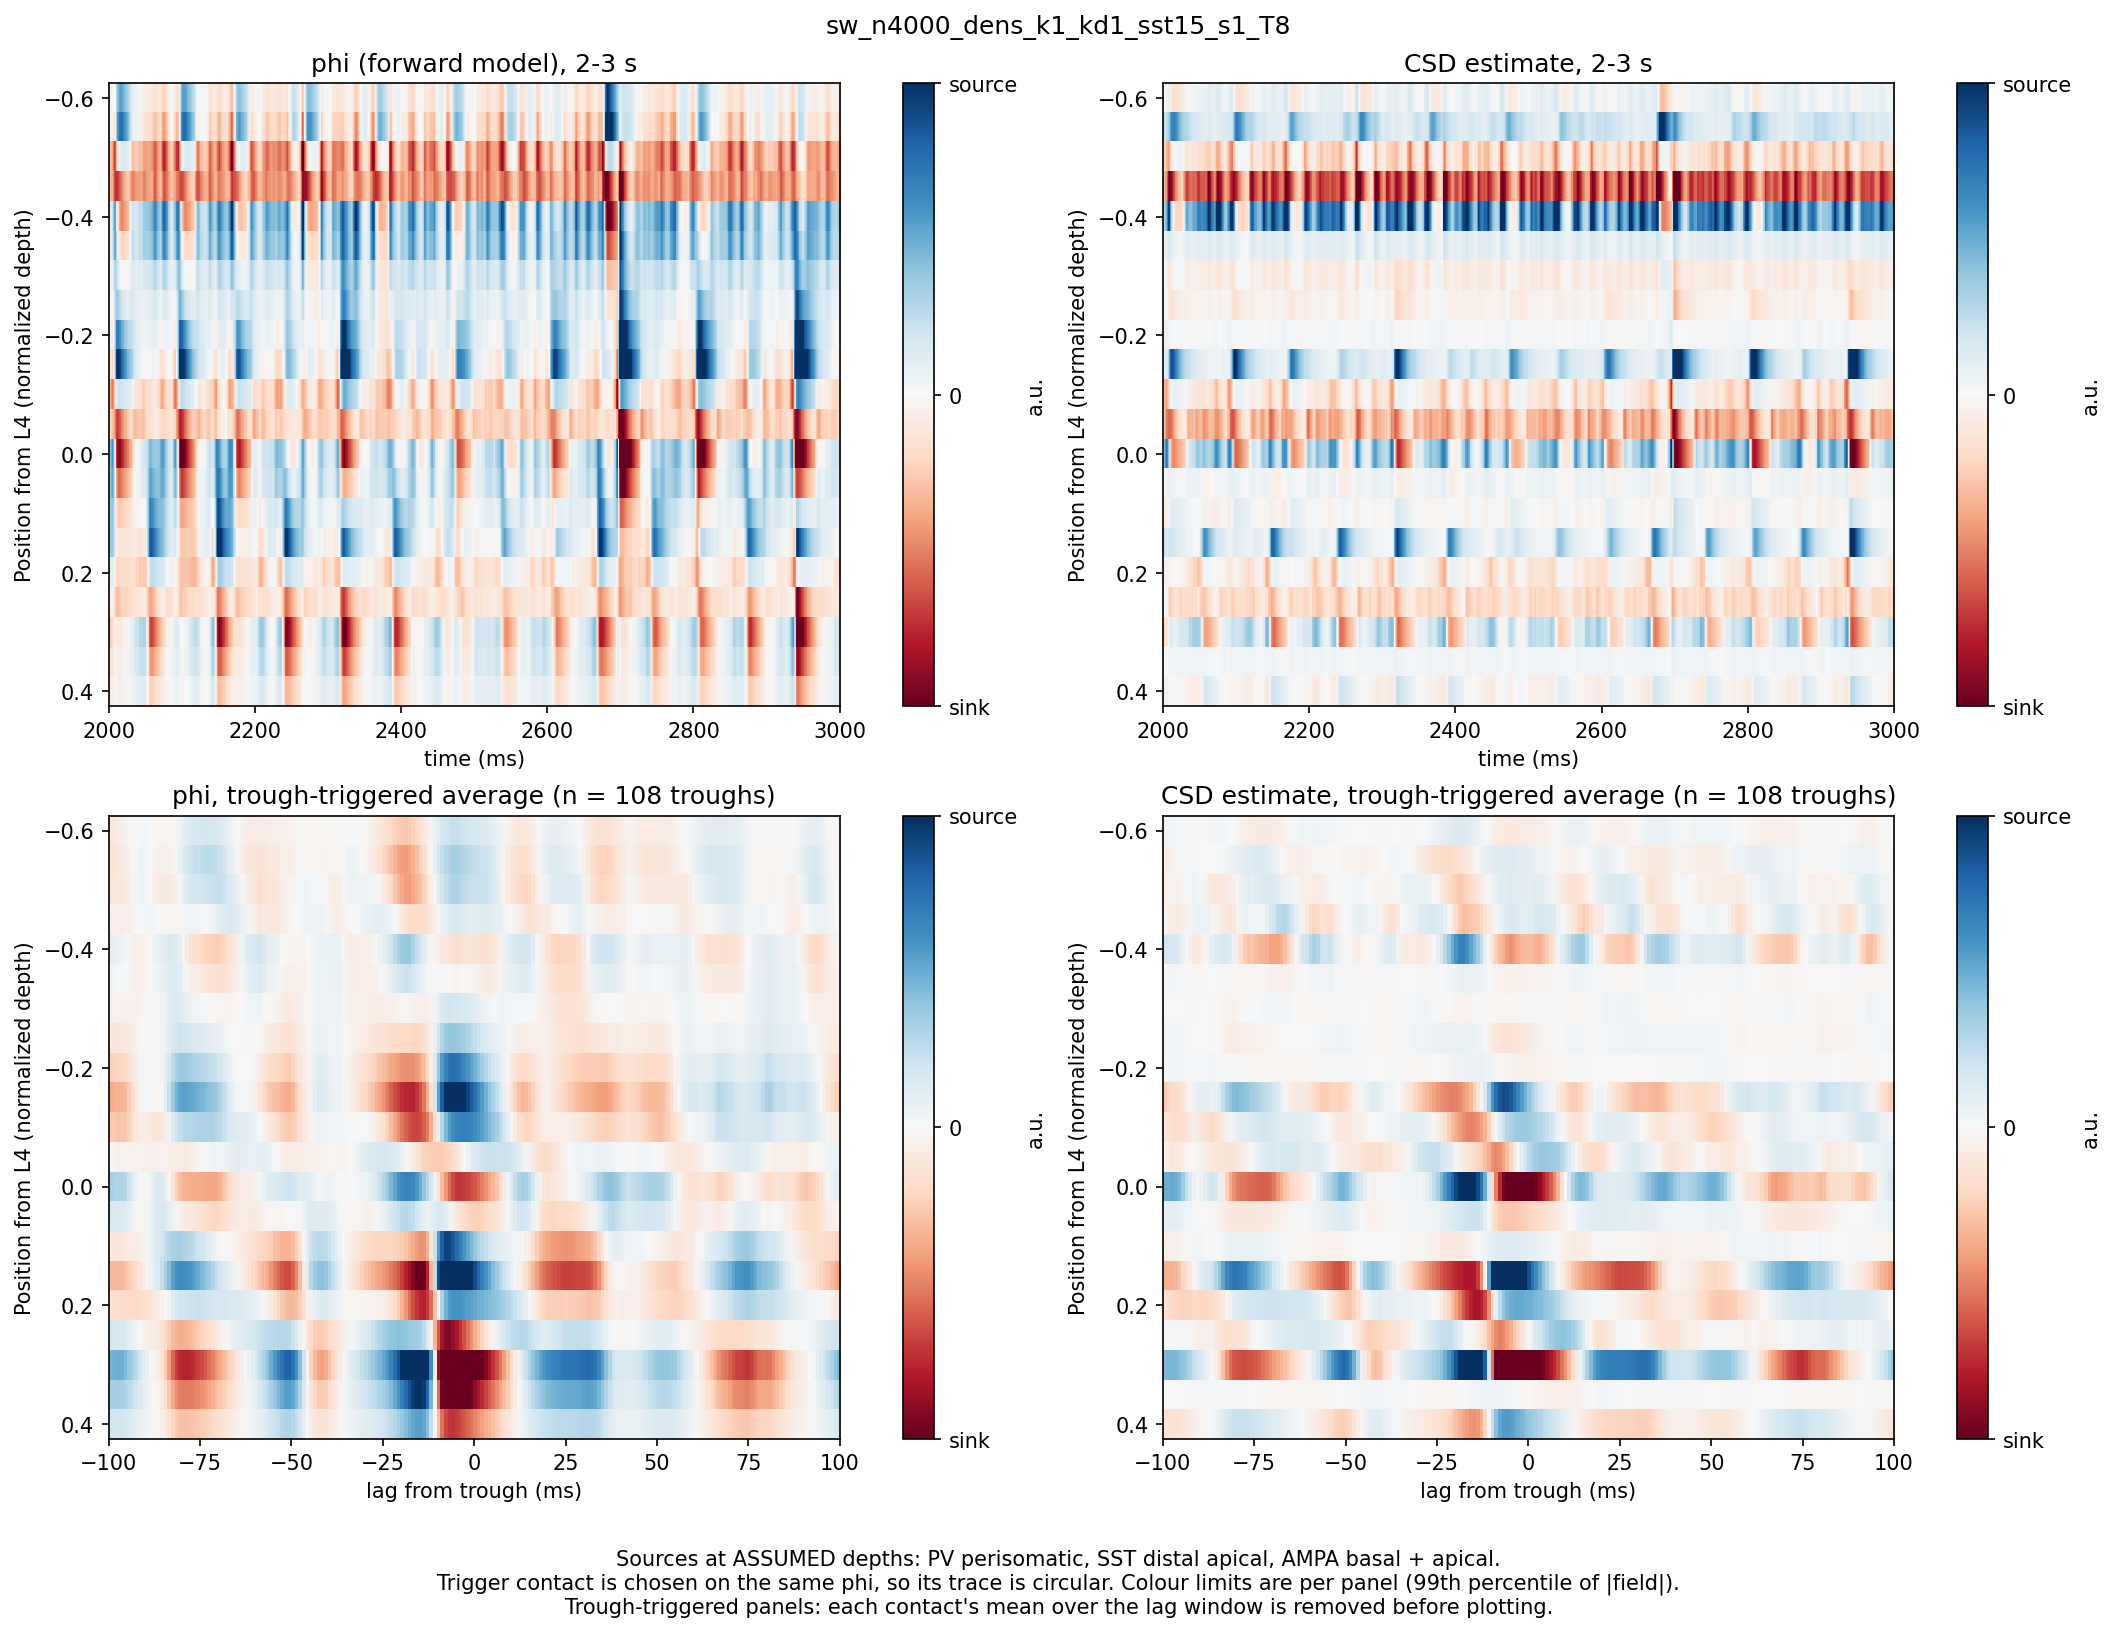
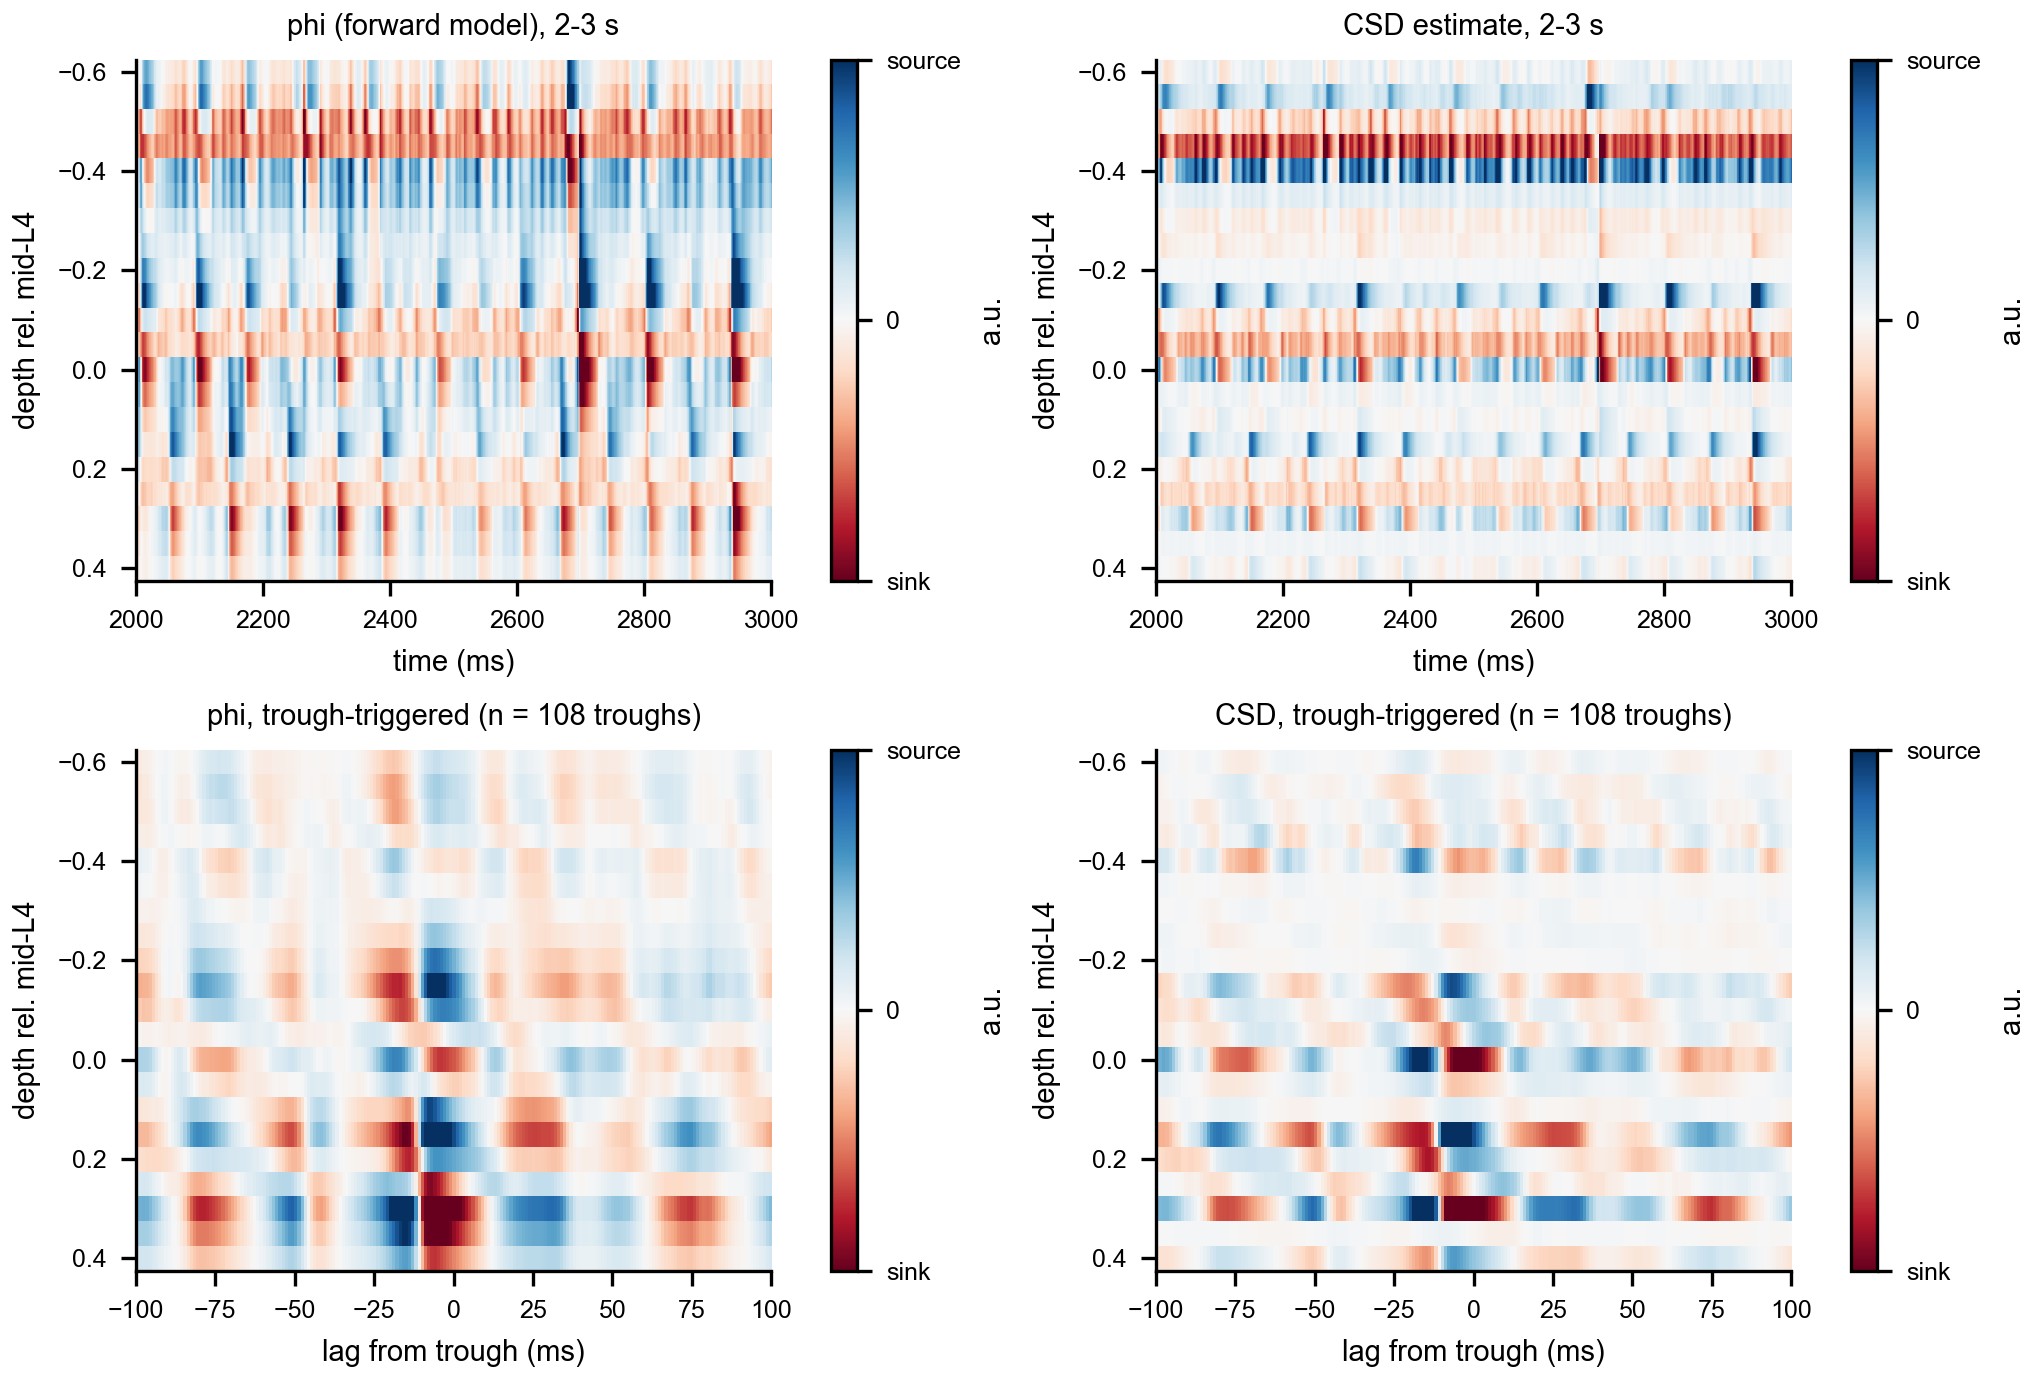
Critic round 2 on e153cbb (REVISE): commit the print-size CSD figure and the T8 atlas; Methods states which figures are untracked and that D6 hashes all shown
- results/viz/paper_w4/..._csd.png (tracked) was regenerated by e2_csd.py but not committed; the T8 atlas is now
  tracked like the T1 atlases.
- Abstract: T8 dominance marked as read from the maps (249 words); introduction "change which unit dominates";
  marginal flat-density mid-depth gamma call stated (mean d 0.056, bound 0.046).

diff --git a/paper/jomission_lansa/sections/abstract.tex b/paper/jomission_lansa/sections/abstract.tex
@@ -3,12 +3,11 @@ Local field potentials (LFPs) across primate cortex show a spectrolaminar motif:
 superficial layers and relative alpha-beta power in deep layers. Laminar cell densities predict this motif across
 macaque areas; whether they can generate it is untested. We built a column of three adaptive exponential
 (AdEx) units of excitatory, parvalbumin (PV) and somatostatin (SOM) cells, sized from the laminar densities of 11
-macaque areas with an assumed SOM/PV ratio rising with depth. A sealed rule scored its LFP proxy against the
-observed map. The single unit matched its reference; its gamma frequency fell as the SOM/PV ratio rose. The
+macaque areas with an assumed SOM/PV ratio rising with depth. A sealed rule scored its LFP proxy. The single unit matched its reference; its gamma frequency fell as the SOM/PV ratio rose. The
 column placed alpha-beta deep (depth correlation 0.83--0.86, 3 seeds) but left relative gamma just above mid-layer
 4 at 0.19--0.31 in 12 runs, against 0.85 observed. Network size, a sealed in-degree and SOM-kinetics search and
 exploratory middle-unit weights did not raise the gamma depth correlation to criterion without losing deep
-alpha-beta. In sealed controls at fixed cell count, flattening or reversing the ratio ramp let the superficial unit
+alpha-beta. In sealed controls at fixed cell count, the maps showed that flattening or reversing the ratio ramp let the superficial unit
 dominate the map and turned the alpha-beta correlation negative (3 of 3 seeds); flattening or permuting density let the deep unit dominate and turned the gamma correlation negative. Moving only the readout contacts
 raised map similarity from 0.38 to 0.72 without rejecting a frequency-shift null, and a simulation-free search
 showed that the readout can meet the gamma criterion, so the failure lies in the circuit's spectra, consistent with

diff --git a/paper/jomission_lansa/sections/introduction.tex b/paper/jomission_lansa/sections/introduction.tex
@@ -39,8 +39,7 @@ middle and deep depths, sized by the LANSA densities, with a SOM/PV ratio rising
 probe and scored against the observed map by a single sealed rule. We ask whether this density-informed column
 reproduces the motif and, where it fails, what it lacks. The column places alpha-beta deep on its selection seeds
 but leaves gamma weak between $-0.2$ and 0 of cortical thickness; network size, sealed fine-tuning and exploratory
-weight changes do not close the gap. Sealed controls that flatten or permute one construction rule at a time show
-that the assumed SOM/PV ramp and the measured density profile each set which unit dominates the map, without
-isolating a band-specific mechanism. Readout controls show that moving the probe contacts raises the similarity score substantially, so a geometry-only
+weight changes do not close the gap. Sealed controls that flatten or permute one construction rule at a time change
+which unit dominates the map in these constructions, without isolating a band-specific mechanism. Readout controls show that moving the probe contacts raises the similarity score substantially, so a geometry-only
 account of a fit is not excluded, while a simulation-free search shows that the readout itself can meet the gamma
 criterion, which places the failure in the circuit's spectra.

diff --git a/paper/jomission_lansa/sections/results.tex b/paper/jomission_lansa/sections/results.tex
@@ -429,7 +429,8 @@ arms turned the gamma and whole-map correlations negative: $r_{gm}$ fell from 0.
 $-0.85$ (permuted), and $r_\text{proto}$ from 0.21--0.40 to $-0.37$ and $-0.44$ (ref higher in both). The ratio
 arms raised $r_{gm}$ to about 0.5 (flat: control higher; reversed: all three $d_s < 0$ but the mean, $-0.178$, did
 not exceed the bound, so no consistent difference) while lowering $r_\text{proto}$. No control raised mid-depth
-relative gamma: it was 0.23--0.26 in the reference and 0.04--0.23 in the controls (ref higher in all four). No run
+relative gamma: it was 0.23--0.26 in the reference and 0.04--0.23 in the controls (ref higher in all four; for the flat-density arm marginally, mean $d$ 0.056
+against a bound of 0.046). No run
 of any arm passed the scorer; the reference showed the band crossing on seeds 1 and 3, and no control run showed it.
 
 The maps show what these scores measure (Fig.~\ref{fig:t8}). In the density arms the deep unit dominates relative

diff --git a/paper/jomission_lansa/sections/methods.tex b/paper/jomission_lansa/sections/methods.tex
@@ -270,4 +270,6 @@ Code, pre-registration seals, derived data and run records are cited in the text
 Table~\ref{tab:records} (C code, S seals, D derived data, R run records, N notes), with the commit of each code
 and seal file. Code and seals are in the project repository \citep{Jomission}; the simulator is JaxFNE 0.5.9
 \citep{JaxFNE}. Seeds are given per run in the tables and run records. The run records are not under version
-control; their SHA-256 hashes are in record \rec{D6} (153 files, including every figure shown). Availability is stated under Data availability.
+control, nor are some figures drawn from them (Table~\ref{tab:records}); record \rec{D6} holds the SHA-256 hashes
+of 153 files, including every figure shown, so an untracked figure can be checked against the one in this
+preprint. Availability is stated under Data availability.
